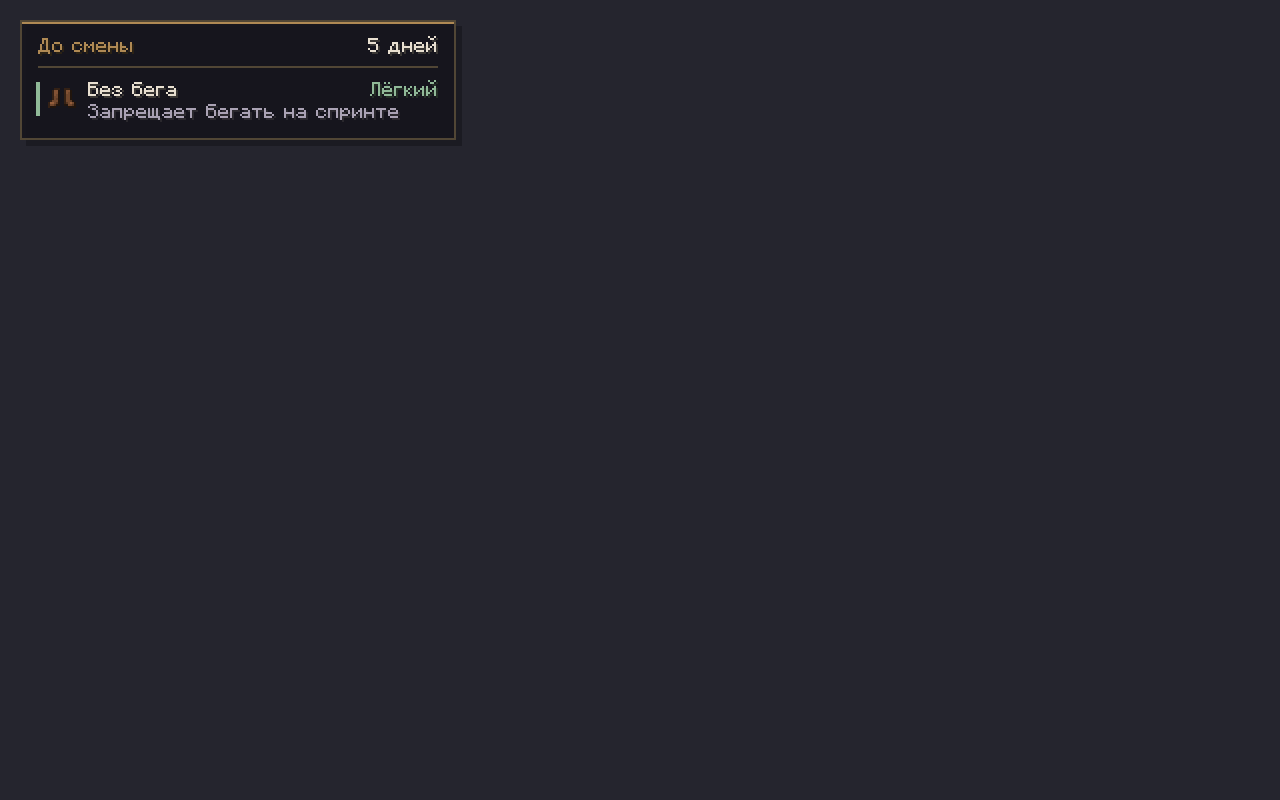
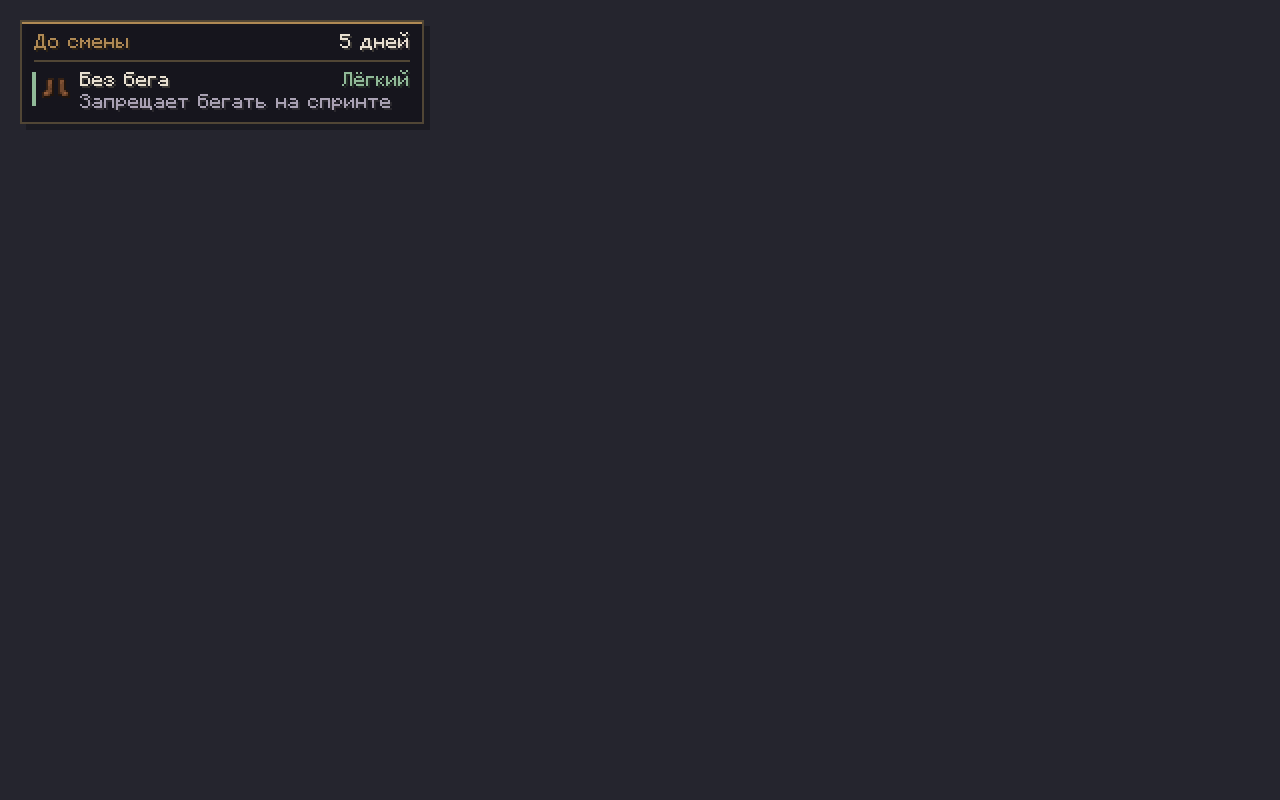
Make the challenge HUD more compact

Changed region(s): [[0.0, 0.0312, 0.3438, 0.1562]]

diff --git a/src/main/java/com/cursecycle/client/gui/CurseCycleHudOverlay.java b/src/main/java/com/cursecycle/client/gui/CurseCycleHudOverlay.java
@@ -20,11 +20,11 @@ public final class CurseCycleHudOverlay {
         MinecraftClient client = MinecraftClient.getInstance();
         if (!config.enableHudOverlay || client.options.hudHidden) return;
         var renderer = client.textRenderer;
-        int width = Math.min(218, context.getScaledWindowWidth() - 12);
+        int width = Math.min(202, context.getScaledWindowWidth() - 12);
         if (width < 80) return;
-        int textWidth = width - 42;
+        int textWidth = width - 38;
         List<HudEntry> entries = new ArrayList<>();
-        int height = 30;
+        int height = 25;
         for (String id : activeIds) {
             Challenge challenge = ChallengeRegistry.get(id);
             String name = challenge == null ? id : challenge.getName();
@@ -33,44 +33,44 @@ public final class CurseCycleHudOverlay {
             int difficultyWidth = challenge == null ? 0 : renderer.getWidth(challenge.getDifficulty().getDisplayName()) + 6;
             int nameHeight = renderer.wrapLines(Text.literal(name), Math.max(24, textWidth - difficultyWidth)).size() * 11;
             int descHeight = Math.min(2, renderer.wrapLines(Text.literal(desc), textWidth - 6).size()) * 11;
-            int rowHeight = Math.max(22, nameHeight + descHeight + (feedback.isEmpty() ? 0 : 11)) + 8;
+            int rowHeight = Math.max(20, nameHeight + descHeight + (feedback.isEmpty() ? 0 : 11)) + 5;
             entries.add(new HudEntry(id, challenge, name, desc, feedback, rowHeight));
             height += rowHeight;
         }
-        if (entries.isEmpty()) height += 19;
+        if (entries.isEmpty()) height += 17;
         boolean next = nextId != null && !nextId.isEmpty();
-        if (next) height += 25;
+        if (next) height += 23;
         int x = Math.clamp(config.hudPositionX, 0, Math.max(0, context.getScaledWindowWidth() - width - 6));
         int y = Math.clamp(config.hudPositionY, 0, Math.max(0, context.getScaledWindowHeight() - height - 6));
         int visibleHeight = Math.min(height, context.getScaledWindowHeight() - y - 6);
         CurseStyle.panel(context, x, y, width, visibleHeight);
         context.enableScissor(x + 1, y + 1, x + width - 1, y + visibleHeight - 1);
         context.drawTextWithShadow(renderer, Text.translatable("text.cursecycle.hud.countdown"),
-                x + 9, y + 9, CurseStyle.BRONZE);
+                x + 7, y + 7, CurseStyle.BRONZE);
         long days = ChallengeCountdown.daysRemaining(ticksUntilNext);
         Text timer = Text.translatable(ChallengeCountdown.daysKey(days, client.getLanguageManager().getLanguage()), days);
-        context.drawTextWithShadow(renderer, timer, x + width - renderer.getWidth(timer) - 9, y + 9,
+        context.drawTextWithShadow(renderer, timer, x + width - renderer.getWidth(timer) - 7, y + 7,
                 days <= 1 ? CurseStyle.PURPLE : CurseStyle.TEXT);
-        context.fill(x + 9, y + 23, x + width - 9, y + 24, CurseStyle.EDGE);
-        int currentY = y + 31;
+        context.fill(x + 7, y + 20, x + width - 7, y + 21, CurseStyle.EDGE);
+        int currentY = y + 26;
         if (entries.isEmpty()) {
             context.drawTextWithShadow(renderer, Text.translatable("text.cursecycle.no_active"),
-                    x + 9, currentY, CurseStyle.MUTED);
-            currentY += 19;
+                    x + 7, currentY, CurseStyle.MUTED);
+            currentY += 17;
         }
         for (HudEntry entry : entries) {
             int color = CurseStyle.color(entry.challenge);
-            context.fill(x + 8, currentY, x + 10, currentY + 17, color);
-            CurseStyle.icon(context, entry.id, x + 13, currentY);
+            context.fill(x + 6, currentY, x + 8, currentY + 17, color);
+            CurseStyle.icon(context, entry.id, x + 10, currentY);
             String difficulty = entry.challenge == null ? "" : entry.challenge.getDifficulty().getDisplayName();
             int difficultyWidth = difficulty.isEmpty() ? 0 : renderer.getWidth(difficulty) + 6;
             context.drawTextWithShadow(renderer, difficulty,
-                    x + width - renderer.getWidth(difficulty) - 9, currentY, color);
+                    x + width - renderer.getWidth(difficulty) - 7, currentY, color);
             int lineY = CurseStyle.wrapped(context, renderer, Text.literal(entry.name),
-                    x + 34, currentY, Math.max(24, textWidth - difficultyWidth), CurseStyle.TEXT);
+                    x + 30, currentY, Math.max(24, textWidth - difficultyWidth), CurseStyle.TEXT);
             if (!entry.feedback.isEmpty()) {
                 context.drawTextWithShadow(renderer, CurseStyle.trim(renderer, entry.feedback, textWidth),
-                        x + 34, lineY, color);
+                        x + 30, lineY, color);
                 lineY += 11;
             }
             var lines = renderer.wrapLines(Text.literal(entry.desc), textWidth - 6);
@@ -79,21 +79,21 @@ public final class CurseCycleHudOverlay {
                 if (i == 1 && lines.size() > 2) {
                     line = net.minecraft.text.OrderedText.concat(line, Text.literal("…").asOrderedText());
                 }
-                context.drawTextWithShadow(renderer, line, x + 34, lineY, CurseStyle.MUTED);
+                context.drawTextWithShadow(renderer, line, x + 30, lineY, CurseStyle.MUTED);
                 lineY += 11;
             }
             currentY += entry.height;
         }
         if (next) {
-            context.fill(x + 9, currentY - 3, x + width - 9, currentY - 2, CurseStyle.EDGE);
+            context.fill(x + 7, currentY - 3, x + width - 7, currentY - 2, CurseStyle.EDGE);
             String names = ChallengeUtils.isDoubleChallenge(nextId)
                     ? String.join(" / ", ChallengeUtils.parseSubChallengeIds(nextId).stream().map(CurseStyle::name).toList())
                     : CurseStyle.name(nextId);
             if (names.isEmpty()) names = CurseStyle.name(nextId);
             context.drawTextWithShadow(renderer, Text.translatable("text.cursecycle.hud.next"),
-                    x + 9, currentY + 2, CurseStyle.MUTED);
-            context.drawTextWithShadow(renderer, CurseStyle.trim(renderer, names, width - 18),
-                    x + 9, currentY + 13, CurseStyle.PURPLE);
+                    x + 7, currentY, CurseStyle.MUTED);
+            context.drawTextWithShadow(renderer, CurseStyle.trim(renderer, names, width - 14),
+                    x + 7, currentY + 11, CurseStyle.PURPLE);
         }
         context.disableScissor();
     }
